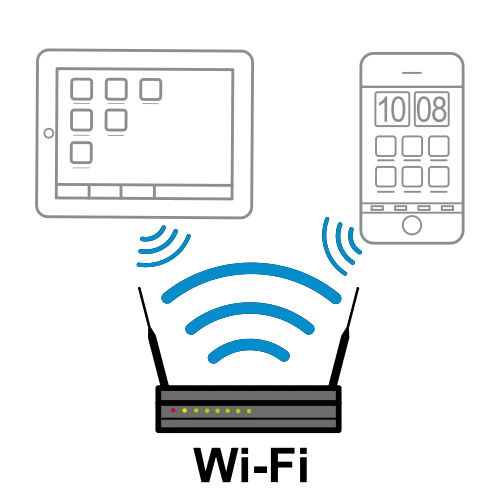
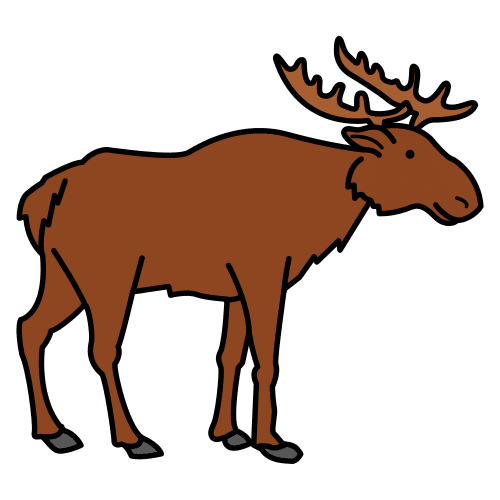
Décodage sensible à l'orthographe pour "oi"/"w" (wapiti, ouate, kiwi)
Lexique383 code le son [wa] de façon identique ("wa") que le mot soit
écrit "oi" (roi, oiseau), "oua" (ouate, douane) ou avec un vrai "w"
(wapiti) — impossible à distinguer sans regarder l'orthographe réelle,
d'où l'ajout du paramètre `ortho` à decodePhon().

Règle (confirmée avec l'enseignante) :
- écrit "oi"/"oî"/"oy" -> fusionné sur la touche "oi" (roi, oiseau,
  boîte, voyage), inchangé.
- écrit "oua" -> touche OU + voyelle, comme "oui" (ouate, douane).
- écrit avec la lettre "w" -> touche W dédiée + voyelle, JAMAIS "ou" —
  W est enseigné comme son propre son combiné à la voyelle qui suit
  (wapiti, wifi, kiwi, week-end). Correction d'une première tentative
  qui les envoyait à tort vers "ou".

Effet concret : la touche "w" (33e touche du clavier, jusqu'ici
totalement injoignable : 0 mot dans tout le lexique) a maintenant 27
mots (wapiti, kiwi, week-end, sandwich, whisky...). "kiwi" se décode
enfin k-i-w-i au lieu du compromis k-i-ou-i accepté précédemment.

Retiré de la fiche "oi" : wapiti/jaguar/douane, qui n'y décodent plus.
Exemple de la touche "w" changé de "wifi" (jamais trouvable, absent du
lexique) à "wapiti" (trouvable), avec pictogramme ARASAAC à jour.

Vérifié : 33/33 mots de contrôle, 0 échec sur 142 694 mots, wapiti
trouvé en direct via w-a-p (pas ou-a-p).

diff --git a/scripts/lexiquePhonemeMap.ts b/scripts/lexiquePhonemeMap.ts
@@ -18,9 +18,11 @@ export interface PhonemePattern {
 }
 
 // Ordre important : les motifs les plus longs/spécifiques d'abord.
+// NB : 'wa' -> "oi" n'est PAS ici (contrairement à 'w5' -> "oin") car cette
+// fusion dépend de l'orthographe réelle du mot, pas seulement du son — voir
+// shouldFuseOi() et son usage dans decodePhon().
 export const multiCharPatterns: PhonemePattern[] = [
   { match: 'w5', id: 'oin' }, // coin, loin, point -> kw5, lw5, pw5
-  { match: 'wa', id: 'oi' }, // oiseau, moi, roi -> wazo, mwa, Rwa
   { match: '8i', id: 'ui' }, // huit, lui, pluie, fruit -> 8it, l8i, pl8i, fR8i
   { match: 'ks', id: 'x' }, // taxi -> taksi
   { match: 'gz', id: 'x' }, // xylophone, xénophobe -> gzilofOn, gzenofOb (x prononcé /gz/)
@@ -82,8 +84,25 @@ export const singleCharMap: Record<string, string> = {
   G: 'gn', // ng anglais (camping), très rare — approximé sur notre touche [ɲ]
 }
 
+// Le son [wa] (rangé sous la touche "oi") se décode différemment selon
+// l'orthographe réelle du mot, pas seulement d'après le son :
+//  - écrit "oi"/"oî"/"oy" (roi, moi, oiseau, boîte, voyage, royal) ->
+//    fusionné sur la touche "oi" : ce sont les trois graphies enseignées
+//    comme la même famille de son composé (déjà groupées ainsi dans
+//    phonemes.json).
+//  - écrit "oua" (ouate, douane) ou avec un vrai "w" (wapiti) -> décomposé en
+//    deux touches OU + [voyelle], comme "oui" (jamais fusionné) — c'est ainsi
+//    que l'enseignante l'enseigne : le "w"/"ou" est son propre son, combiné
+//    ensuite à la voyelle qui suit, peu importe la lettre affichée.
+// Lexique383 code le son [wa] de façon identique ("wa") dans tous les cas ;
+// seule l'orthographe permet de trancher, d'où le paramètre `ortho`.
+function shouldFuseOi(ortho: string): boolean {
+  const lower = ortho.toLowerCase()
+  return lower.includes('oi') || lower.includes('oî') || lower.includes('oy')
+}
+
 /** Découpe une chaîne phon Lexique383 en séquence de nos PhonemeId. */
-export function decodePhon(phon: string): string[] {
+export function decodePhon(phon: string, ortho: string): string[] {
   const result: string[] = []
   let i = 0
   while (i < phon.length) {
@@ -104,17 +123,28 @@ export function decodePhon(phon: string): string[] {
       i += 1
       continue
     }
-    // [w] devant une voyelle est perçu par un enfant comme le son "ou"
-    // (chouette = ch-ou-e-t, oui = ou-i), pas comme la lettre "w" — sauf les
-    // cas déjà captés plus haut ('wa' -> "oi", 'w5' -> "oin"), qui collent
-    // mieux à la graphie réelle (roi, coin). [w] non suivi d'une voyelle (rare,
-    // fin de mot/devant consonne) reste sur sa touche dédiée "w" (wifi,
-    // week-end) — un compromis assumé : quelques emprunts comme "kiwi"
-    // (k-i-w-i) seront alors décodés k-i-ou-i, au bénéfice du cas très
-    // majoritaire des mots français natifs en "ou"/"oi".
+    // [w] devant une voyelle : la touche dépend de la lettre réellement
+    // écrite, pas seulement du son — comme pour "oi" plus haut.
+    //  - écrit "ou" (chouette, oui, ouate) -> touche "ou" (+ la voyelle suit
+    //    normalement).
+    //  - écrit avec un vrai "w" (wapiti, wifi, kiwi, week-end) -> touche "w"
+    //    dédiée + la voyelle suit normalement (enseigné comme W + voyelle,
+    //    jamais fondu avec "ou").
+    // [w] non suivi d'une voyelle (rare, fin de mot/devant consonne) reste
+    // sur la touche "w" de toute façon.
     if (ch === 'w') {
       const next = phon[i + 1]
-      result.push(next !== undefined && VOWEL_SYMBOLS.has(next) ? 'ou' : 'w')
+      if (next === 'a' && shouldFuseOi(ortho)) {
+        result.push('oi') // roi, moi, oiseau, boîte : vraiment écrits "oi"/"oî"
+        i += 2
+        continue
+      }
+      if (next !== undefined && VOWEL_SYMBOLS.has(next)) {
+        result.push(ortho.toLowerCase().includes('w') ? 'w' : 'ou')
+        i += 1
+        continue
+      }
+      result.push('w')
       i += 1
       continue
     }